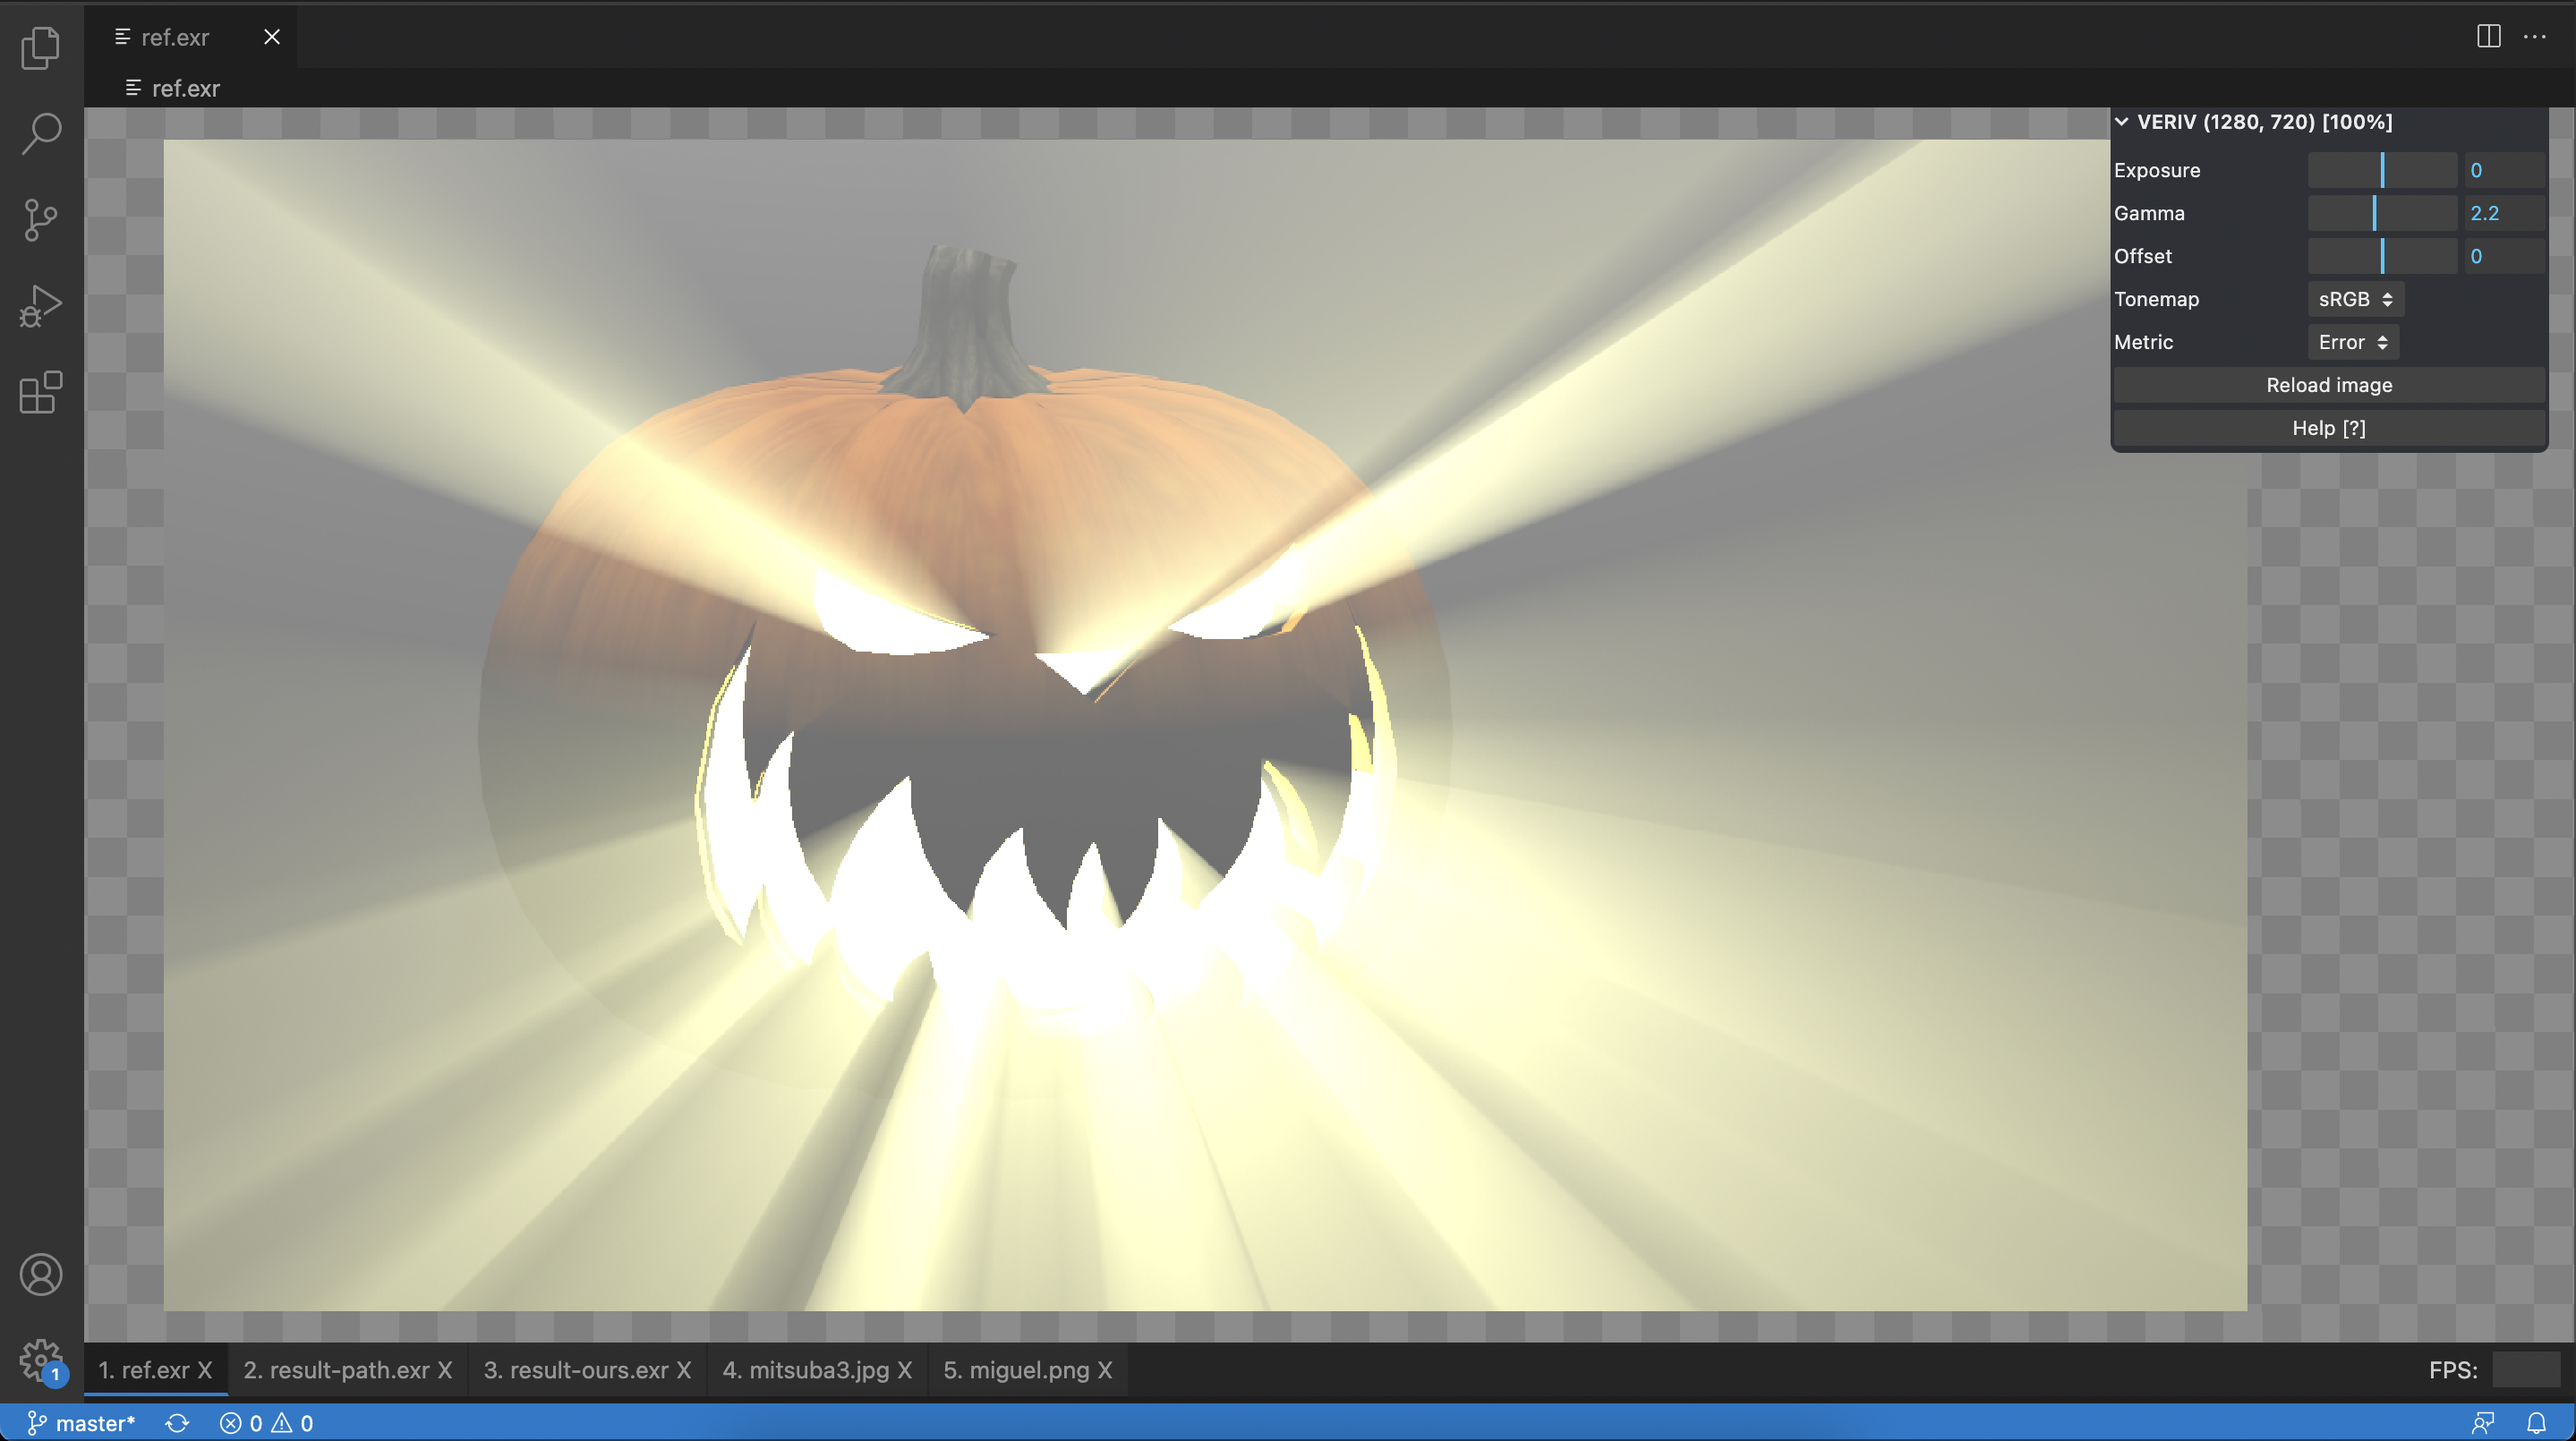
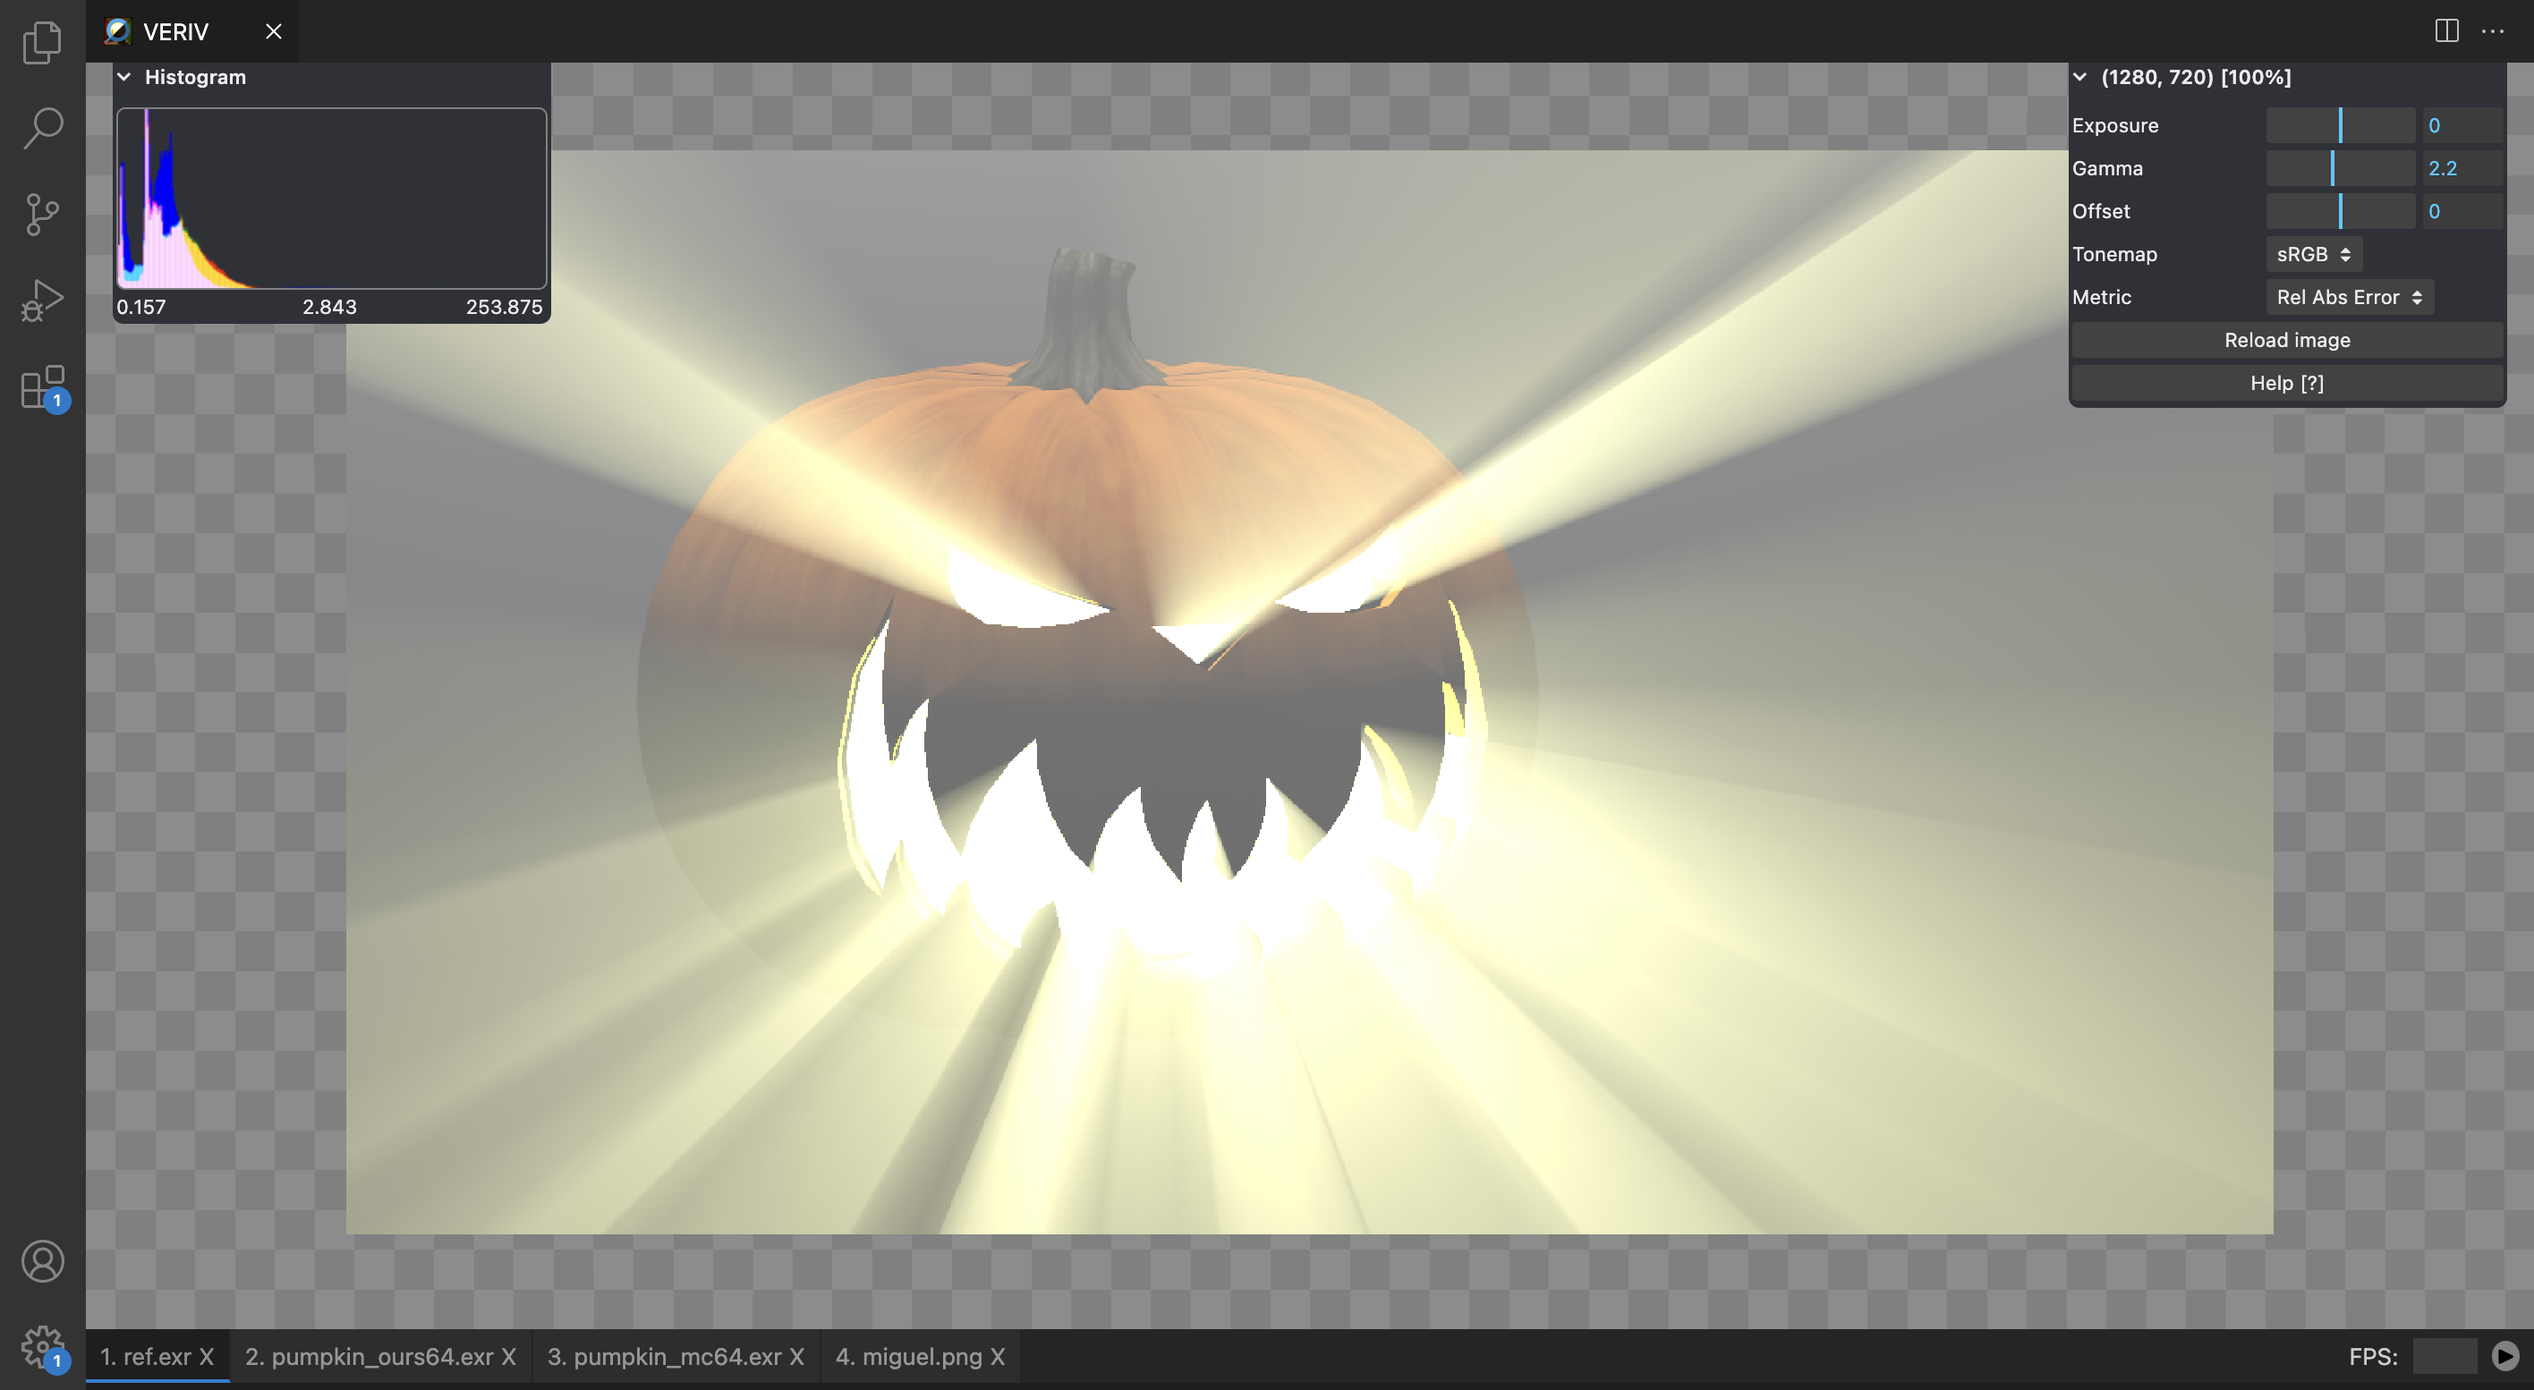
V1.0.4

diff --git a/README.md b/README.md
@@ -14,14 +14,16 @@
 
 <br>
 
-This extension provides support for loading and visualizing **LDR** / **HDR** images directly inside Vscode. Apart from that, the viewer contains more useful features than the native one included by default:
+This extension provides support for loading and visualizing **LDR** / **HDR** *(animated)* images directly inside Vscode. Apart from that, the viewer contains more useful features than the native one included by default:
 
 * Translation and smooth zooming inside the image, allowing to see pixel values.
-* Control for adjusting exposure.
+* Control for adjusting exposure and gamma.
 * Different tone mapping possibilities: sRGB, inverse gamma, positive/negative color, and false color visualization.
 * Possibility of comparing different images using a specified error metric (Error, Absolute error, Squared Error, Relative Absolute Error, or Relative Squared Error).
-* Reloading images is also supported (for `.exr` files).
+* Displays the histogram of the image (or the histogram of the error metric).
+* Reloading images is also supported.
 * Playing the images as a video depending on the user selection of `FPS` (Frames per second).
+* Right-click menu entry for opening all the images in a folder.
 
 </br>
 
